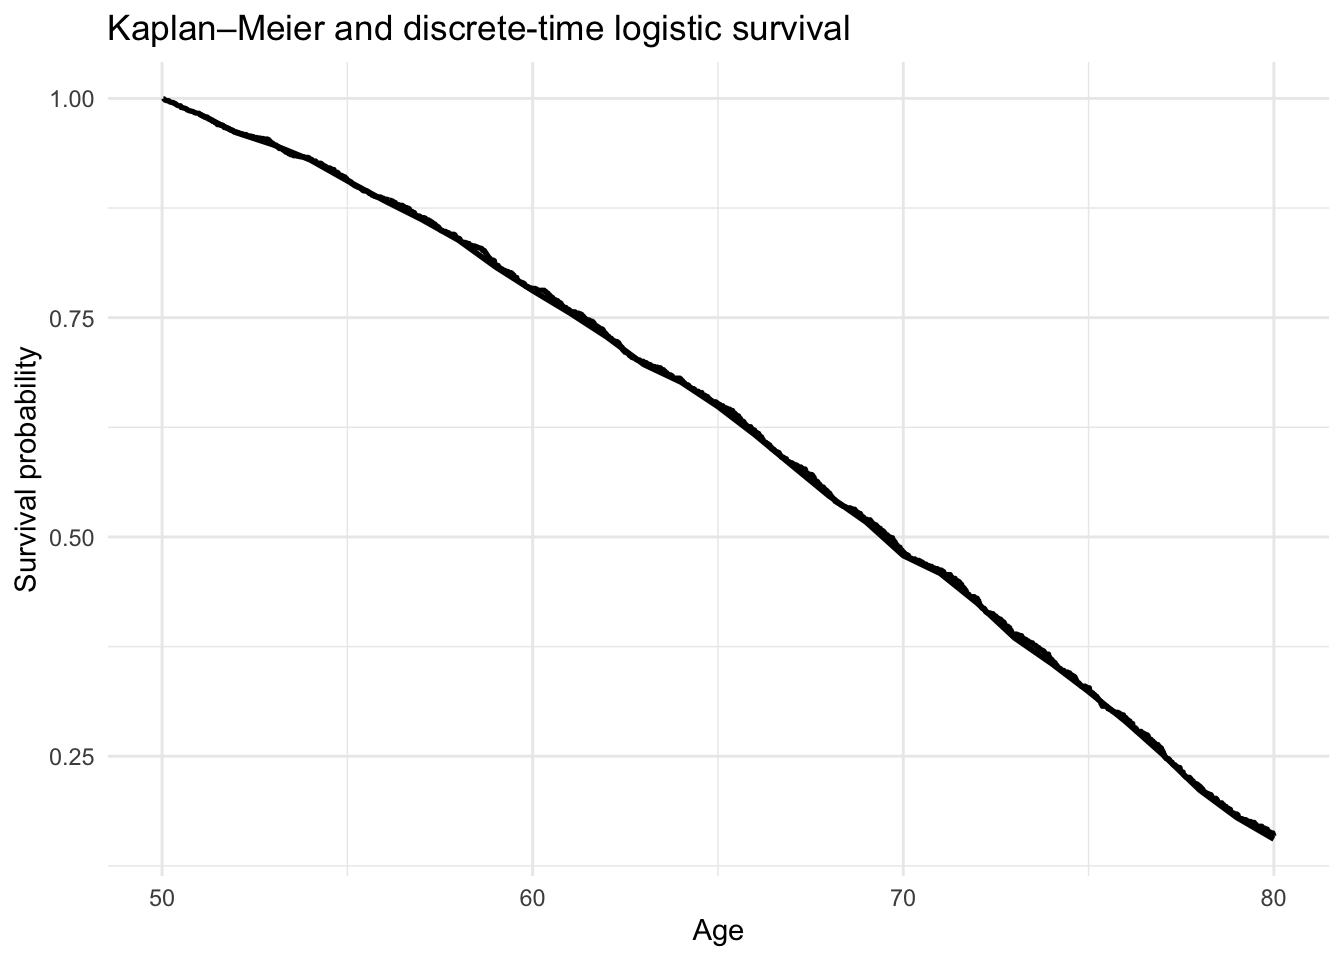
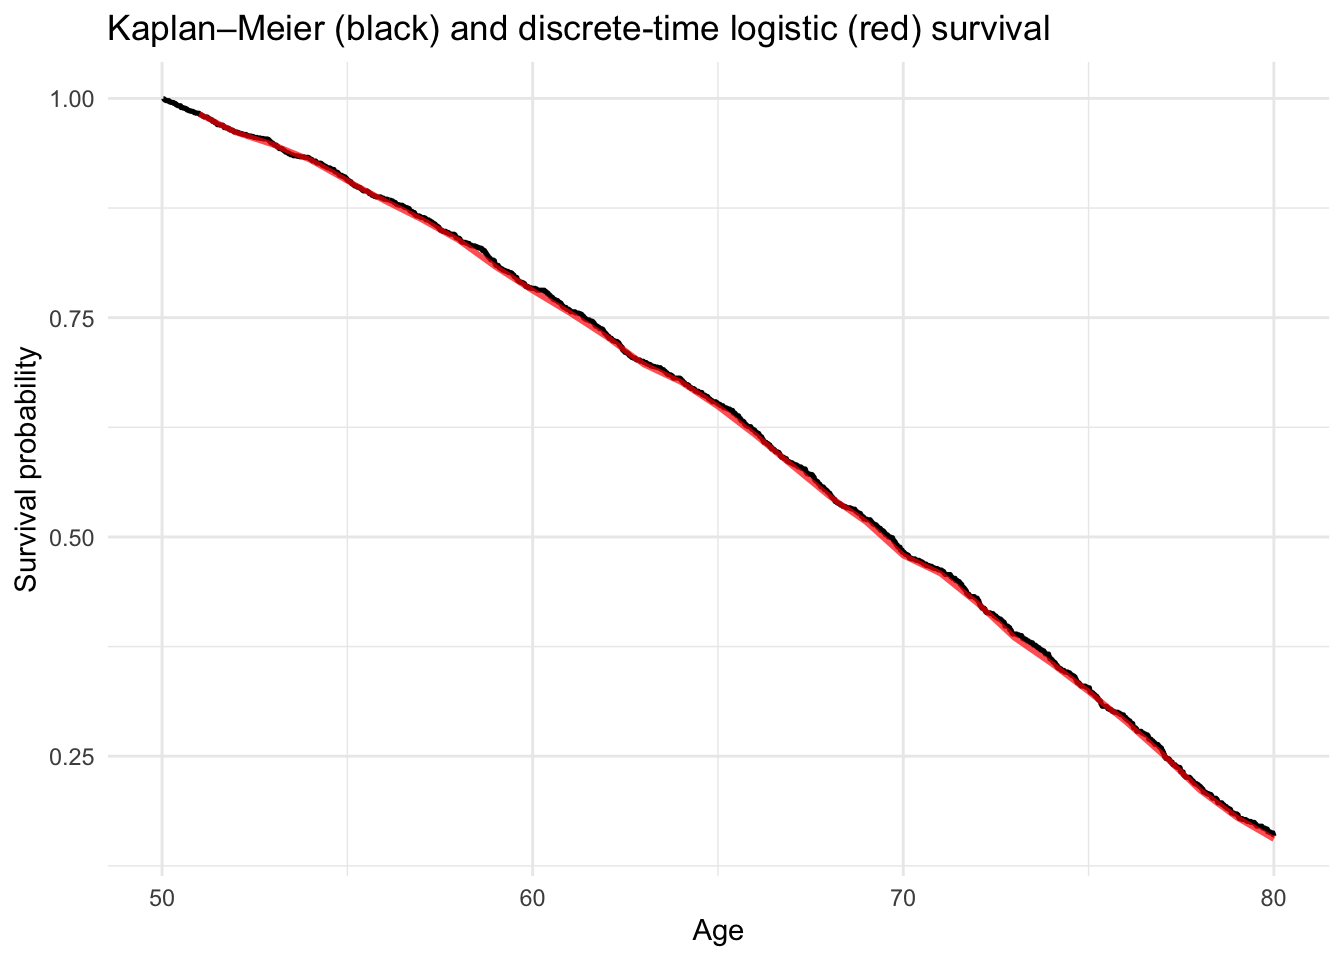
Built site for gh-pages

diff --git a/posts/eha/index.html b/posts/eha/index.html
@@ -943,14 +943,16 @@ S_j =
 <span id="cb34-13"><a href="#cb34-13" aria-hidden="true" tabindex="-1"></a>      <span class="at">x =</span> age_end,</span>
 <span id="cb34-14"><a href="#cb34-14" aria-hidden="true" tabindex="-1"></a>      <span class="at">y =</span> survival</span>
 <span id="cb34-15"><a href="#cb34-15" aria-hidden="true" tabindex="-1"></a>    ),</span>
-<span id="cb34-16"><a href="#cb34-16" aria-hidden="true" tabindex="-1"></a>    <span class="at">linewidth =</span> <span class="dv">1</span></span>
-<span id="cb34-17"><a href="#cb34-17" aria-hidden="true" tabindex="-1"></a>  ) <span class="sc">+</span></span>
-<span id="cb34-18"><a href="#cb34-18" aria-hidden="true" tabindex="-1"></a>  <span class="fu">labs</span>(</span>
-<span id="cb34-19"><a href="#cb34-19" aria-hidden="true" tabindex="-1"></a>    <span class="at">x =</span> <span class="st">"Age"</span>,</span>
-<span id="cb34-20"><a href="#cb34-20" aria-hidden="true" tabindex="-1"></a>    <span class="at">y =</span> <span class="st">"Survival probability"</span>,</span>
-<span id="cb34-21"><a href="#cb34-21" aria-hidden="true" tabindex="-1"></a>    <span class="at">title =</span> <span class="st">"Kaplan–Meier and discrete-time logistic survival"</span></span>
-<span id="cb34-22"><a href="#cb34-22" aria-hidden="true" tabindex="-1"></a>  ) <span class="sc">+</span></span>
-<span id="cb34-23"><a href="#cb34-23" aria-hidden="true" tabindex="-1"></a>  <span class="fu">theme_minimal</span>()</span></code></pre></div><button title="Copy to Clipboard" class="code-copy-button"><i class="bi"></i></button></div>
+<span id="cb34-16"><a href="#cb34-16" aria-hidden="true" tabindex="-1"></a>    <span class="at">linewidth =</span> <span class="dv">1</span>,</span>
+<span id="cb34-17"><a href="#cb34-17" aria-hidden="true" tabindex="-1"></a>    <span class="at">color =</span> <span class="st">'red'</span>,</span>
+<span id="cb34-18"><a href="#cb34-18" aria-hidden="true" tabindex="-1"></a>    <span class="at">alpha =</span> <span class="fl">0.7</span></span>
+<span id="cb34-19"><a href="#cb34-19" aria-hidden="true" tabindex="-1"></a>  ) <span class="sc">+</span></span>
+<span id="cb34-20"><a href="#cb34-20" aria-hidden="true" tabindex="-1"></a>  <span class="fu">labs</span>(</span>
+<span id="cb34-21"><a href="#cb34-21" aria-hidden="true" tabindex="-1"></a>    <span class="at">x =</span> <span class="st">"Age"</span>,</span>
+<span id="cb34-22"><a href="#cb34-22" aria-hidden="true" tabindex="-1"></a>    <span class="at">y =</span> <span class="st">"Survival probability"</span>,</span>
+<span id="cb34-23"><a href="#cb34-23" aria-hidden="true" tabindex="-1"></a>    <span class="at">title =</span> <span class="st">"Kaplan–Meier (black) and discrete-time logistic (red) survival"</span></span>
+<span id="cb34-24"><a href="#cb34-24" aria-hidden="true" tabindex="-1"></a>  ) <span class="sc">+</span></span>
+<span id="cb34-25"><a href="#cb34-25" aria-hidden="true" tabindex="-1"></a>  <span class="fu">theme_minimal</span>()</span></code></pre></div><button title="Copy to Clipboard" class="code-copy-button"><i class="bi"></i></button></div>
 </details>
 <div class="cell-output-display">
 <div>

diff --git a/blog.html b/blog.html
@@ -237,7 +237,7 @@ window.Quarto = {
 
 <div class="quarto-listing quarto-listing-container-default" id="listing-listing">
 <div class="list quarto-listing-default">
-<div class="quarto-post image-right" data-index="0" data-categories="c3RhdGlzdGljcyUyQ2RlbW9ncmFwaHklMkNS" data-listing-date-sort="1792274400000" data-listing-file-modified-sort="1792339623239" data-listing-date-modified-sort="NaN" data-listing-reading-time-sort="14" data-listing-word-count-sort="2622">
+<div class="quarto-post image-right" data-index="0" data-categories="c3RhdGlzdGljcyUyQ2RlbW9ncmFwaHklMkNS" data-listing-date-sort="1792274400000" data-listing-file-modified-sort="1792339870596" data-listing-date-modified-sort="NaN" data-listing-reading-time-sort="14" data-listing-word-count-sort="2636">
 <div class="thumbnail"><a href="./posts/eha/index.html" class="no-external">
 
 <p class="card-img-top"><img src="posts/eha/index_files/figure-html/unnamed-chunk-6-1.png"  class="thumbnail-image card-img"/></p>
